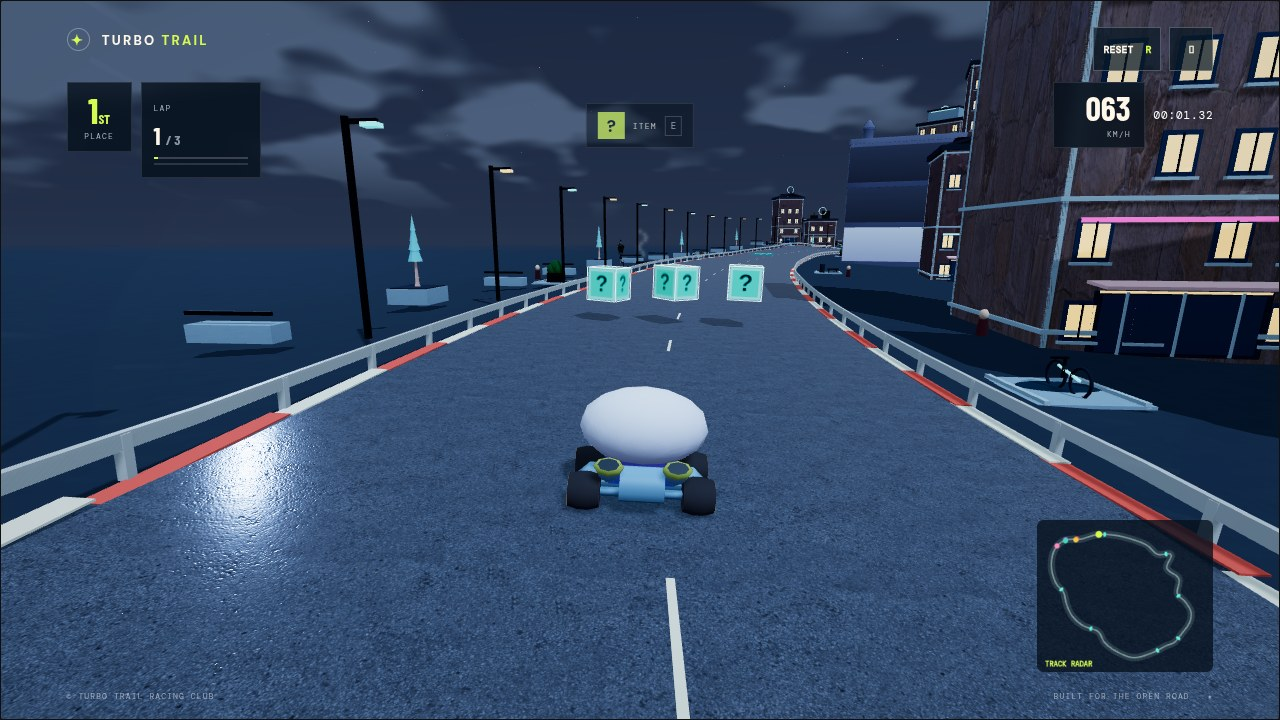
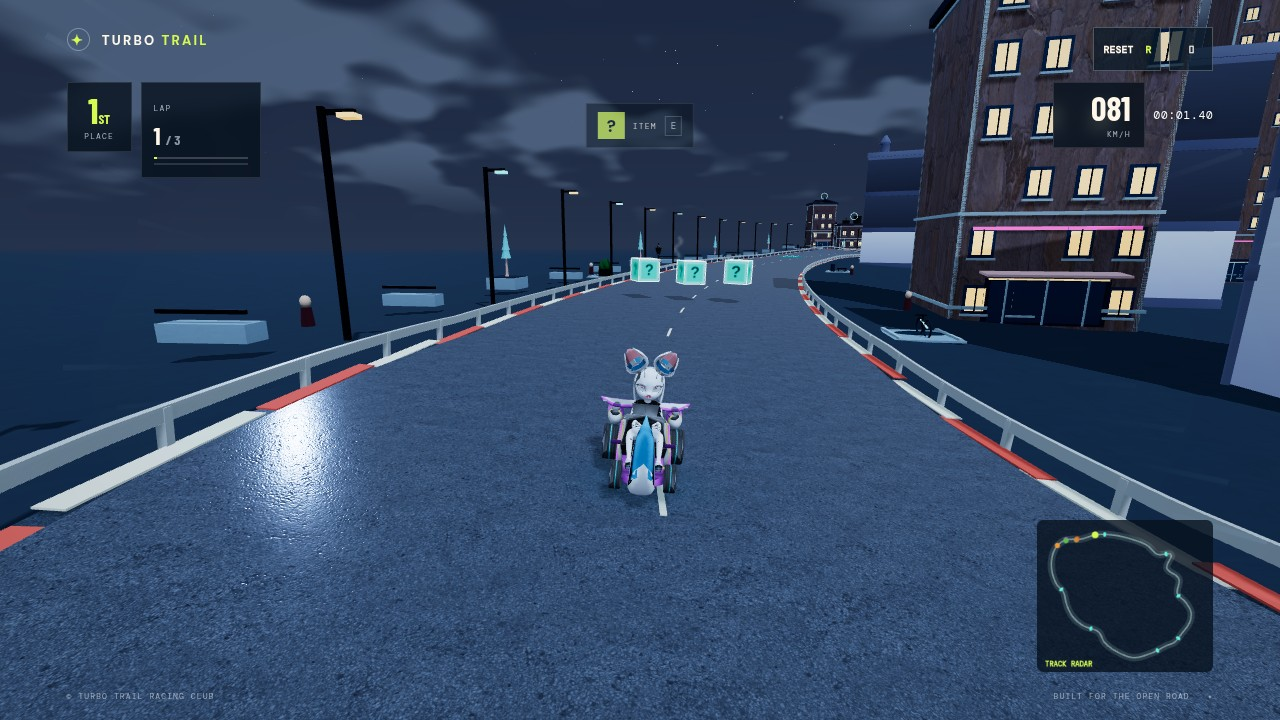
Regenerate README screenshots with distinct racers

diff --git a/README.md b/README.md
@@ -13,9 +13,9 @@ the opponent grid. [Racer artwork credits and licenses](assets/courses/packs/sha
 
 | Windmill Wilds | Neon Harbor |
 | --- | --- |
-| ![In-game view of Windmill Wilds](docs/screenshots/windmill-wilds.jpg) | ![In-game view of Neon Harbor](docs/screenshots/neon-harbor.jpg) |
+| ![Tux racing in Windmill Wilds](docs/screenshots/windmill-wilds.jpg) | ![Kiki racing in Neon Harbor](docs/screenshots/neon-harbor.jpg) |
 | **Sunstone Ruins** | **Frostpeak Festival** |
-| ![In-game view of Sunstone Ruins](docs/screenshots/sunstone-ruins.jpg) | ![In-game view of Frostpeak Festival](docs/screenshots/frostpeak-festival.jpg) |
+| ![Nolok racing in Sunstone Ruins](docs/screenshots/sunstone-ruins.jpg) | ![Konqi racing in Frostpeak Festival](docs/screenshots/frostpeak-festival.jpg) |
 
 ## Run locally
 
